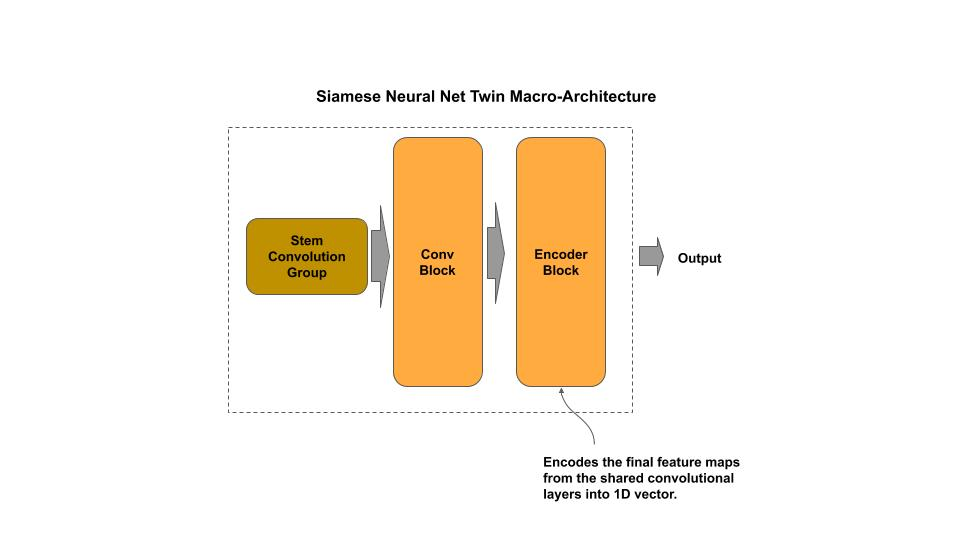
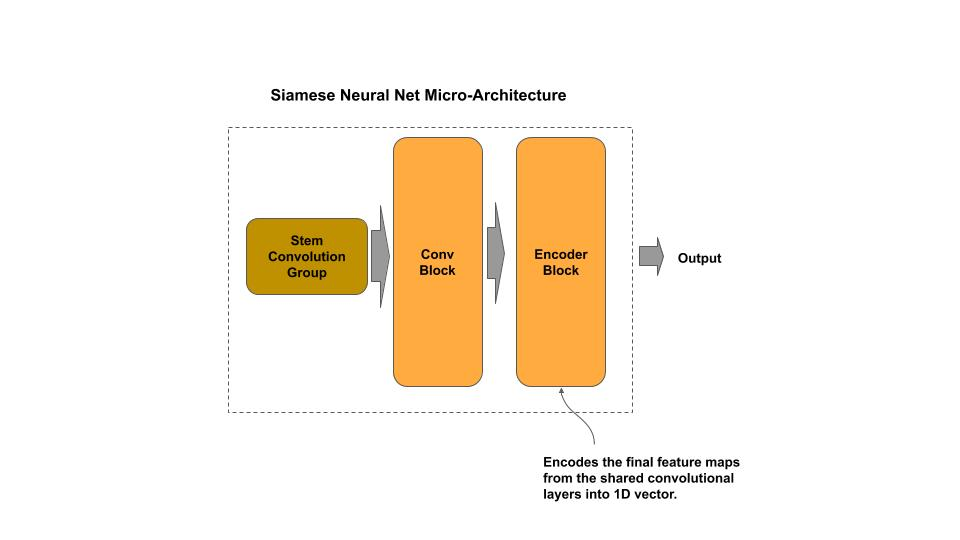
arch pics for siamese

Changed region(s): [[0.2812, 0.1481, 0.6875, 0.2074]]

diff --git a/zoo/siamese_twin/README.md b/zoo/siamese_twin/README.md
@@ -8,10 +8,11 @@
 
 <img src="macro.jpg">
 
-### Twin Model
-
-<img src="macro-twin.jpg">
-
-## Micro-Architecture
+### Twin Micro-Architecture
 
 <img src="micro.jpg">
+
+### Stem Group
+
+<img src="stem.jpg">
+
